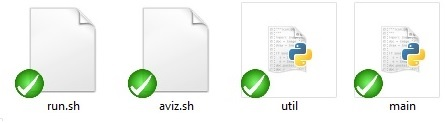
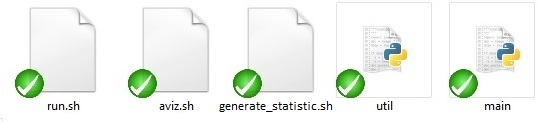
manual.html and results.html updates

diff --git a/web/manual.html b/web/manual.html
@@ -20,6 +20,7 @@
 </ul>
 <ul><li><a href="#config">How to write a configuration file</a></li></ul>
 <ul><li><a href="#potential">How to add new potential</a></li></ul>
+<ul><li><a href="#statistic">How to use the statistic page</a></li></ul>
 <br>
 <br><br>
 <H2><center><a name="run">How to run the system:</a></center></H2>
@@ -39,6 +40,12 @@ After running the system you can see the visual result by running "<b>./aviz.sh 
 where OUTPUT_TITLE should be the name of the AViz's output list as shown after finish the running of the simulation (".lst" file).
 <br>
 More details are under <a href="#runs">"runs"</a> section.
+<br>
+If you wish to get some statistics of the simulations you have done- that's also very easy- all you need to do is write  in the shell(after finishing the simulations) - "<b> ./generate_stat.sh MODEL_NAME</b>". That will create a web page called "compare_chart.html" inside the folder "Web".
+<br>
+If you want to add the animations from AViz to those statistics you should add at the end of the line in shell- "<b>--aviz</b>".
+<br>
+More details about the statistics are under <a href="#statistic">"statistic"</a> section.
 <br>
 <div align="right"><a href="#up">[up]</a></div>
 </P>
@@ -158,6 +165,21 @@ The next step is to change the class name:
 now you need to write how the calculation code.
 <br> the last thing is to write the name of the new potential in the configuration file. (you can read more about <a href="#config">how to create a new configuration file above</a>.)
 </P>
+<div align="right"><a href="#up">[up]</a></div>
+<br>
+
+<H2><center><a name="statistic">How to use the statistics page</a></center></H2>
+<br>
+<li>In order to <i><b>change the axes</b></i> you should only click on the axis's name and change it to what you want, the Chart will change respectively. </li>
+<br>
+<li>Another thing you can change is the <b><i>colour of the chart</i></b>, on the right of the chart.</li>
+<br>
+<li>You can also change the <b><i>type of chart</i></b>- linear, time bubbles etc...</li>
+<br>
+<li>By clicking on a dot in the chart the picture on the right will replaced by the correct state of the system.</li>
+<br>
+
+<br>
 <div align="right"><a href="#up">[up]</a></div>
 <br>
 </BODY>

diff --git a/web/results.html b/web/results.html
@@ -32,11 +32,15 @@
 	In each step (temperature) we allow at most 100000 metropolis tries and then continue cooling.<br>
 	As we can see here in our output we get an order out of the mess:<br><br>
 	</P>
+	<center><img src="gif.gif"/></center>
+	
 	<br>
 	<P>
 	We can also see the change of phase in ____.....
 	</P>
-	
+	The full statistics with the charts and animations can be found <a href="compare_chart.html">here</a>.
+	<br> 
+	More explanation of how to use the statistics can be fin in the <a href="manual.html#statistic">manual page</a>.
 	<br>
 	<center><H2>3D Simulation</H2></center>
 	<P>
